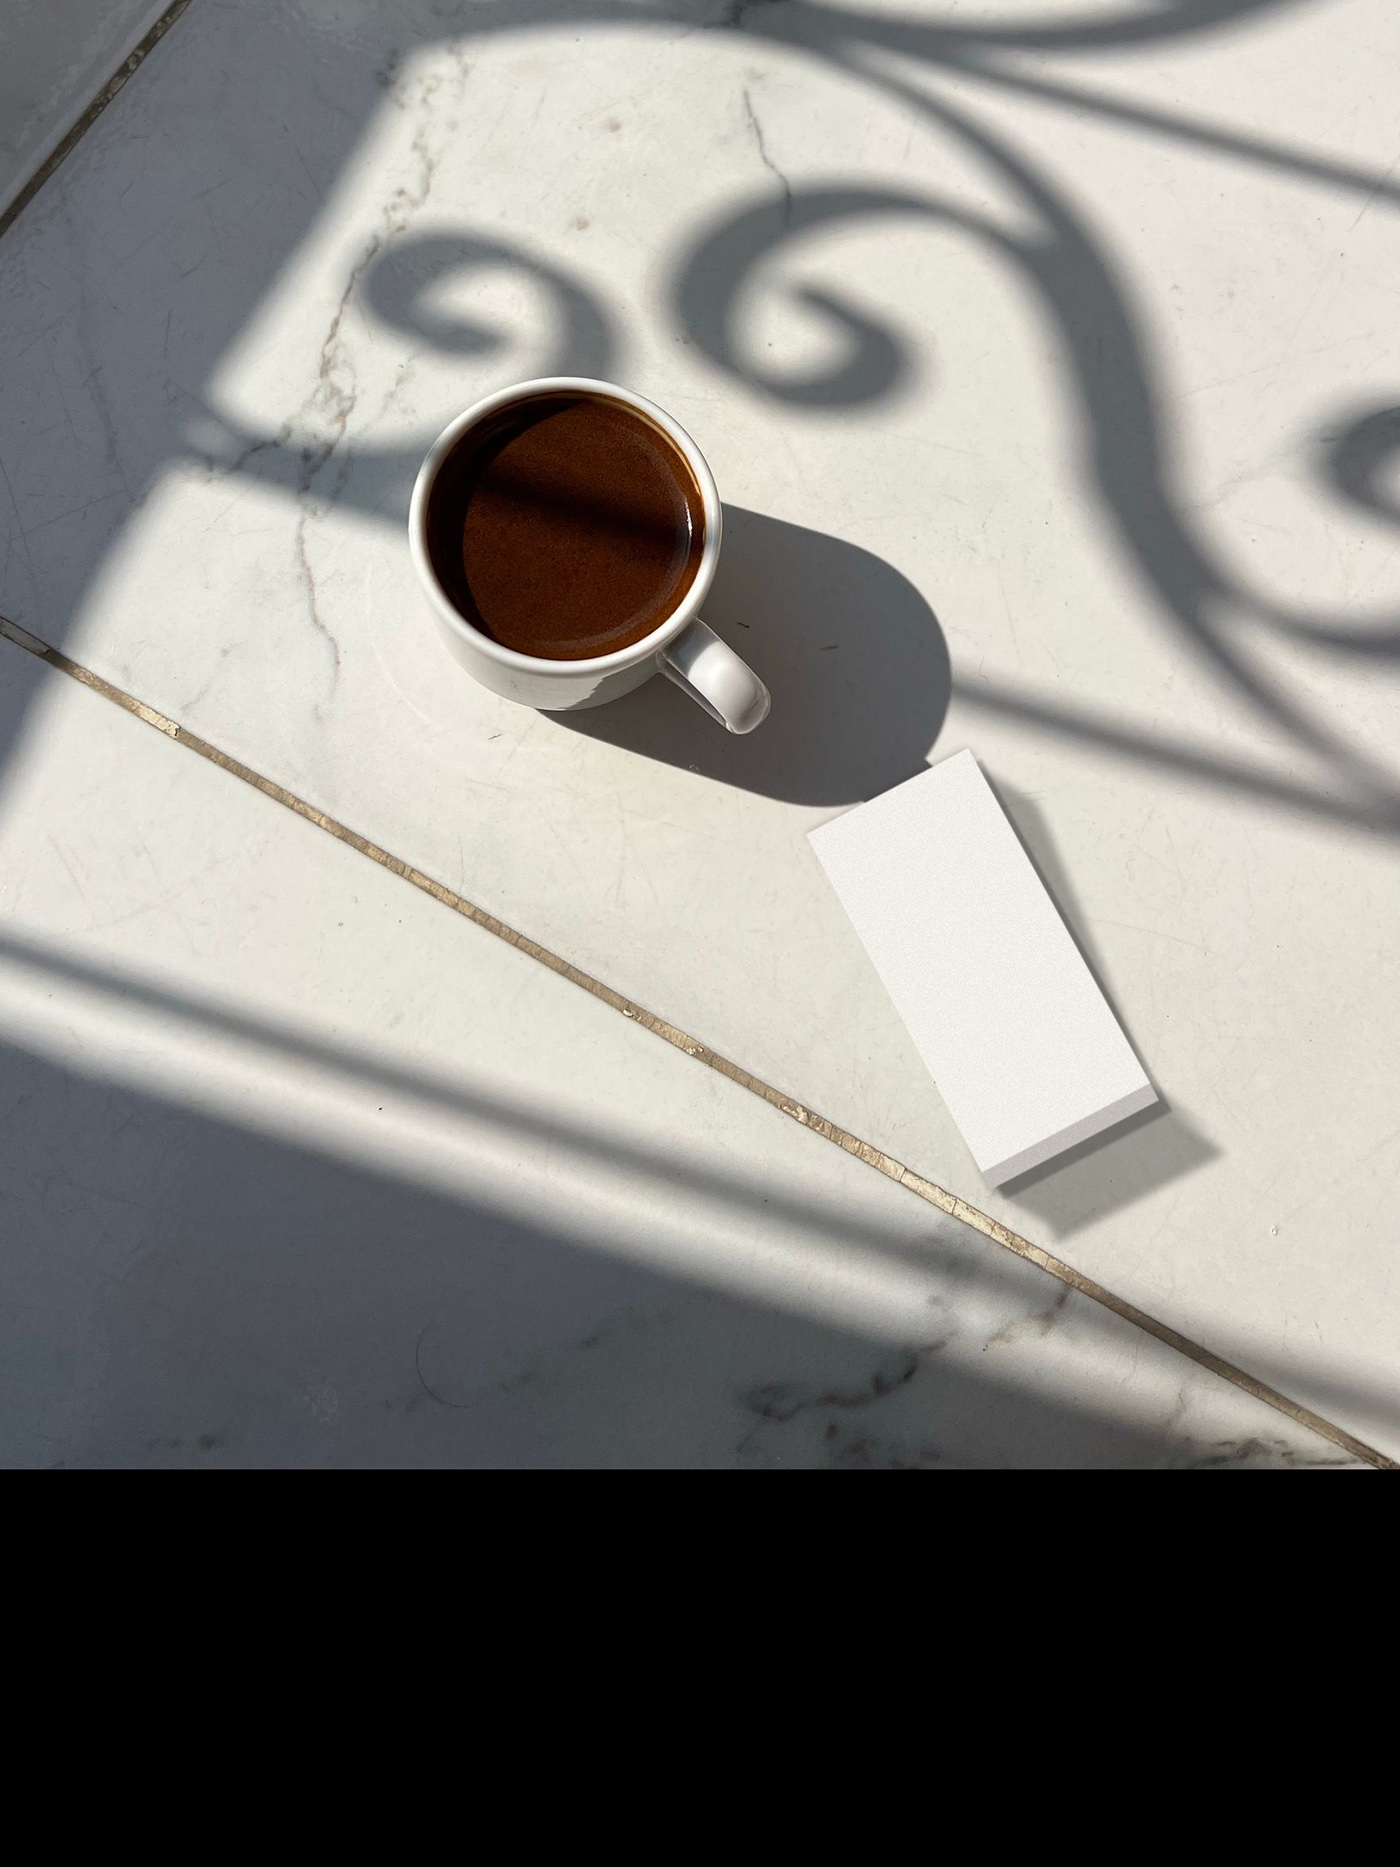
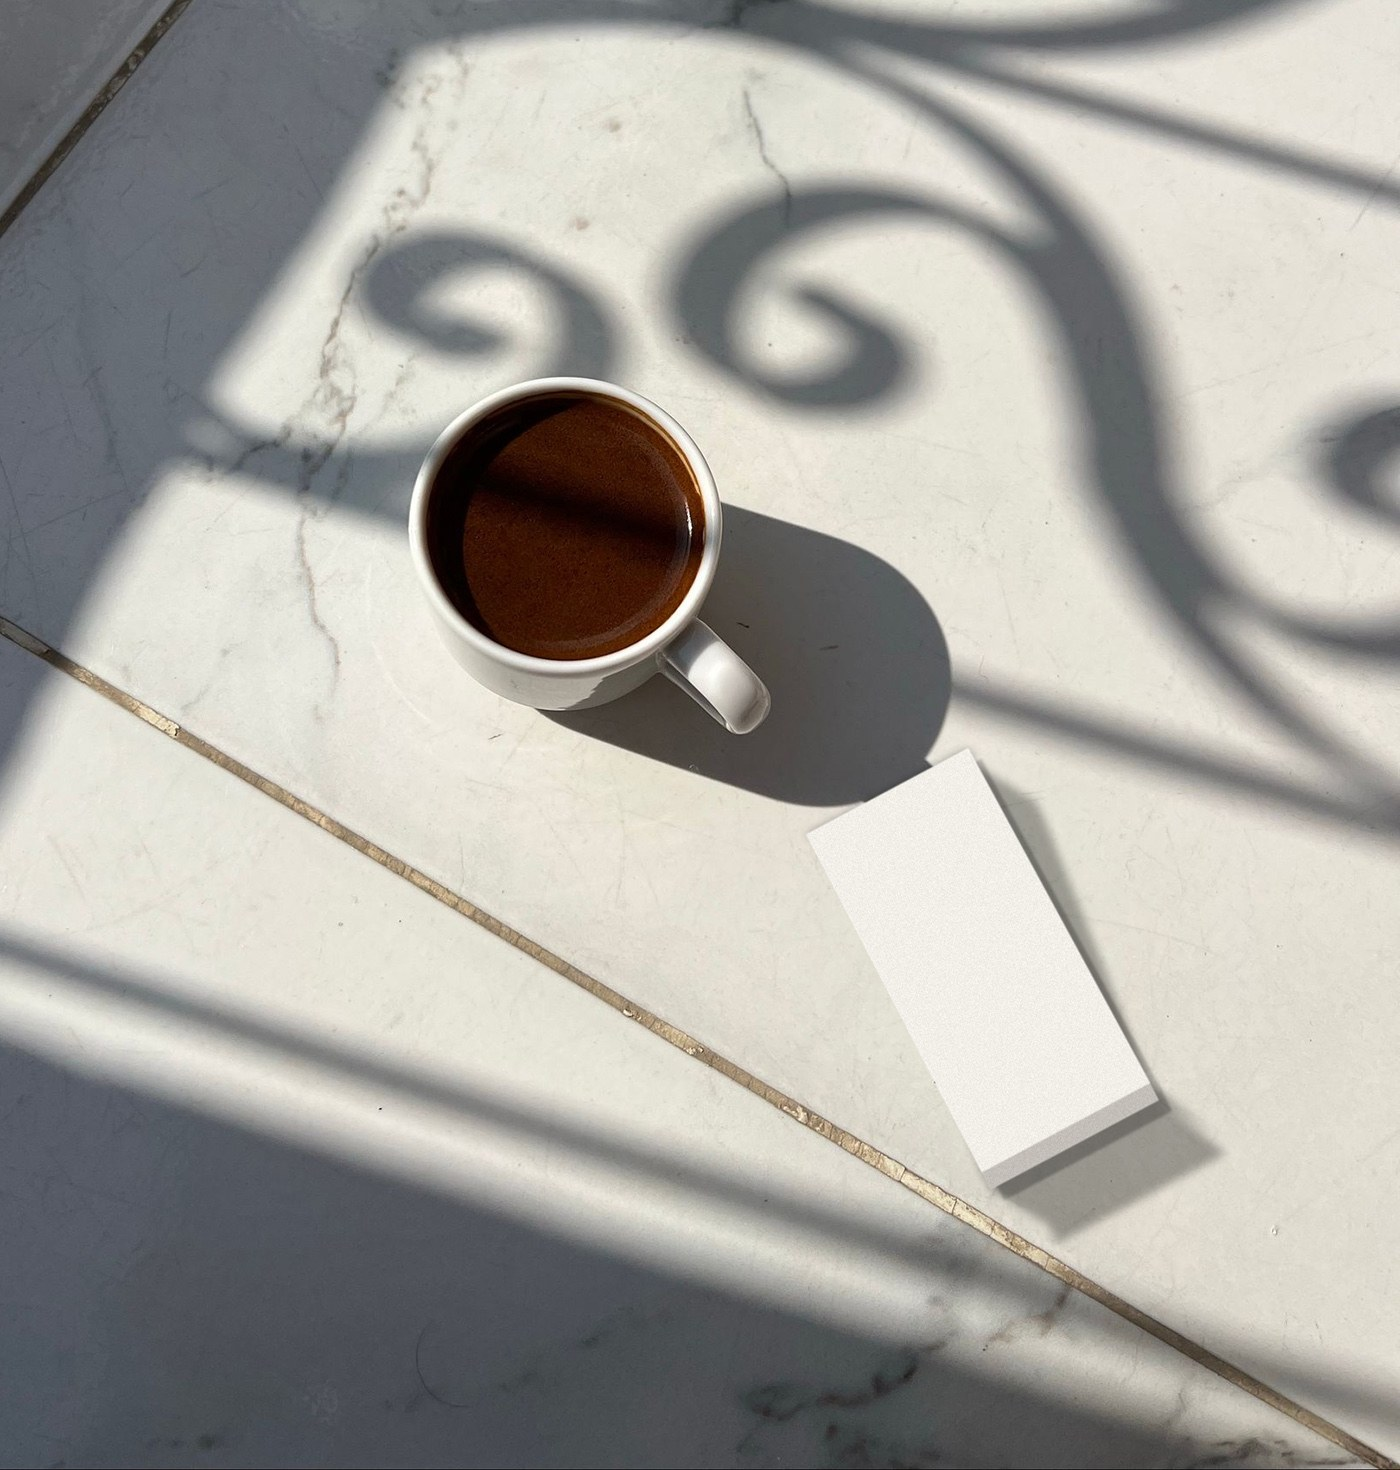
Şirkət səhifəsindəki üç fotonun altındakı qara zolaq getdi
Loqonun yerləşdiyi üç şəkildən ikisi 1400x1867-yə qədər qara ilə
doldurulmuşdu — kafenin altında 397, resepşnun altında 220 piksel. Səhifə
şəkli çərçivəyə bütöv çəkir, ona görə qaranı da sadiqcəsinə çəkirdi: krem
rəngli səhifədə qara zolaq.

Üçü də ən alçağının boyuna — 1400x1470 — kəsildi, sıra bərabər qalsın deyə.
Künc nöqtələri eyni hesabla sürüşdürüldü, qutu hər üç şəkildə əvvəlki
yerində qalır. Çərçivənin forması da 3/4-dən 20/21-ə keçdi: 3/4 yalnız qara
zolaq varkən doğru idi, indi şəkli dartardı.

Test həm formanı, həm qara zolağı tutur — hər ikisi köhnə fayl geri
qoyulanda doğrudan da düşür.

diff --git a/tests/Feature/TheCorporateScenePhotosTest.php b/tests/Feature/TheCorporateScenePhotosTest.php
@@ -1,0 +1,122 @@
+<?php
+
+namespace Tests\Feature;
+
+use App\Support\CorporatePage;
+use Tests\TestCase;
+
+/**
+ * The three photographs the company's own logo is pasted into.
+ *
+ * They are drawn onto a canvas whose shape the stylesheet fixes, and the
+ * photograph is stretched to fill it — so a picture of the wrong shape is
+ * not letterboxed, it is distorted, and nothing on the page says so. Two of
+ * these arrived padded with a black band at the foot, which the page drew
+ * faithfully for weeks: a black strip under a café table on a cream page.
+ *
+ * The corner points are fractions of the photograph itself, so they belong
+ * to that exact picture. A photograph swapped without new corners puts the
+ * box somewhere else in the frame.
+ */
+class TheCorporateScenePhotosTest extends TestCase
+{
+    /** The shape the stylesheet gives the frame: `aspect-ratio: 20 / 21`. */
+    private const RATIO = 20 / 21;
+
+    private function photo(array $scene): \GdImage
+    {
+        $path = public_path($scene['image']);
+
+        $this->assertFileExists($path, $scene['image'].' is listed but not on disk');
+
+        return imagecreatefromjpeg($path);
+    }
+
+    public function test_every_scene_names_a_photograph_and_four_corners(): void
+    {
+        $this->assertCount(3, CorporatePage::SCENES);
+
+        foreach (CorporatePage::SCENES as $scene) {
+            $this->assertNotEmpty($scene['caption']);
+            $this->assertCount(4, $scene['corners'], $scene['image'].' needs four corners');
+
+            foreach ($scene['corners'] as [$x, $y]) {
+                $this->assertGreaterThan(0, $x, $scene['image'].': a corner is off the left edge');
+                $this->assertLessThan(1, $x, $scene['image'].': a corner is off the right edge');
+                $this->assertGreaterThan(0, $y, $scene['image'].': a corner is above the picture');
+                $this->assertLessThan(1, $y, $scene['image'].': a corner is below the picture');
+            }
+        }
+    }
+
+    /**
+     * All three are the shape the frame expects.
+     *
+     * The canvas is given a fixed aspect ratio and the photograph is drawn
+     * across the whole of it, so a picture of another shape comes out
+     * squashed rather than fitted.
+     */
+    public function test_each_photograph_is_the_shape_of_its_frame(): void
+    {
+        foreach (CorporatePage::SCENES as $scene) {
+            $photo = $this->photo($scene);
+            $ratio = imagesx($photo) / imagesy($photo);
+
+            $this->assertEqualsWithDelta(self::RATIO, $ratio, 0.01,
+                $scene['image'].' is '.imagesx($photo).'x'.imagesy($photo)
+                    .', which the frame would have to stretch');
+
+            imagedestroy($photo);
+        }
+    }
+
+    /**
+     * No photograph carries a black band.
+     *
+     * This is what went wrong: two were padded out to a taller canvas with
+     * black, and the page drew the padding along with the picture.
+     */
+    public function test_no_photograph_has_a_black_band_at_its_edges(): void
+    {
+        foreach (CorporatePage::SCENES as $scene) {
+            $photo = $this->photo($scene);
+            $width = imagesx($photo);
+            $height = imagesy($photo);
+
+            foreach (['üst' => 0, 'alt' => $height - 1] as $edge => $row) {
+                $dark = 0;
+                $looked = 0;
+
+                for ($x = 0; $x < $width; $x += 20) {
+                    $colour = imagecolorat($photo, $x, $row);
+                    $sum = (($colour >> 16) & 0xFF) + (($colour >> 8) & 0xFF) + ($colour & 0xFF);
+
+                    $looked++;
+                    $dark += $sum <= 24 ? 1 : 0;
+                }
+
+                $this->assertLessThan($looked, $dark,
+                    $scene['image'].': the whole '.$edge.' edge is black — the picture is padded, '
+                        .'and the page draws the padding');
+            }
+
+            imagedestroy($photo);
+        }
+    }
+
+    /**
+     * The box sits inside the picture with room around it.
+     *
+     * A corner within a hair of the edge means the printed face is half out
+     * of frame, which reads as a mistake rather than as a photograph.
+     */
+    public function test_the_box_is_not_pressed_against_an_edge(): void
+    {
+        foreach (CorporatePage::SCENES as $scene) {
+            foreach ($scene['corners'] as [$x, $y]) {
+                $this->assertGreaterThan(0.02, min($x, $y), $scene['image'].': the box touches an edge');
+                $this->assertLessThan(0.98, max($x, $y), $scene['image'].': the box touches an edge');
+            }
+        }
+    }
+}

diff --git a/app/Support/CorporatePage.php b/app/Support/CorporatePage.php
@@ -108,21 +108,35 @@ class CorporatePage
      * onto that face in his browser, so he sees his own mark on the counter
      * rather than ours.
      */
+    /**
+     * The three photographs the chosen logo is pasted into, and where it sits.
+     *
+     * `corners` are fractions of the photograph itself — the four points of
+     * the printed face, clockwise from its top left. They belong to that
+     * exact picture: replace the file and the box lands somewhere else, so
+     * a new photograph needs new corners measured on it.
+     *
+     * All three are 1400x1470. Two of them arrived padded to 1400x1867 with
+     * a black band at the foot — 397 pixels under the café, 220 under the
+     * reception desk — which the page drew faithfully, black and all. They
+     * are cropped to the shortest of the three so the row stays even, and
+     * these corners were moved by the same arithmetic.
+     */
     public const SCENES = [
         [
             'image' => 'images/corporate/scene-cafe.jpg',
             'caption' => 'Qəhvənin yanında, kafedə',
-            'corners' => [[0.57593, 0.44676], [0.69136, 0.40046], [0.8216, 0.58009], [0.70123, 0.62778]],
+            'corners' => [[0.57593, 0.56742], [0.69136, 0.50861], [0.8216, 0.73675], [0.70123, 0.79732]],
         ],
         [
             'image' => 'images/corporate/scene-reception.jpg',
             'caption' => 'Resepşnda, qonağın qarşısında',
-            'corners' => [[0.45455, 0.42227], [0.5697, 0.42], [0.57697, 0.59591], [0.45939, 0.59818]],
+            'corners' => [[0.45455, 0.53631], [0.5697, 0.53343], [0.57697, 0.75685], [0.45939, 0.75973]],
         ],
         [
             'image' => 'images/corporate/scene-wood.jpg',
             'caption' => 'Masada, hesabla birlikdə',
-            'corners' => [[0.70437, 0.40975], [0.85313, 0.41256], [0.84688, 0.64041], [0.695, 0.6376]],
+            'corners' => [[0.70437, 0.52013], [0.85313, 0.5237], [0.84688, 0.81293], [0.695, 0.80936]],
         ],
     ];
 

diff --git a/resources/views/corporate/index.blade.php b/resources/views/corporate/index.blade.php
@@ -71,8 +71,11 @@
 
   .co-scenes{ display:grid; gap:1.2rem; grid-template-columns:repeat(auto-fit, minmax(15rem, 1fr)); }
   .co-scene{ margin:0; }
+  /* 20/21 is the real shape of the three photographs (1400x1470). The frame
+     used to say 3/4, which was their shape only while two of them carried a
+     black band at the foot; with that gone, 3/4 would stretch them. */
   .co-scene canvas{ display:block; width:100%; height:auto; border-radius:var(--radius-sm);
-    box-shadow:var(--shadow-sm); background:var(--cream-2); aspect-ratio:3 / 4; }
+    box-shadow:var(--shadow-sm); background:var(--cream-2); aspect-ratio:20 / 21; }
   .co-scene figcaption{ margin-top:.5rem; font-size:.82rem; color:var(--cocoa-soft); }
   .co-gallery{ display:grid; gap:1rem; grid-template-columns:repeat(auto-fit, minmax(16rem, 1fr)); }
   .co-shot{ margin:0; }
